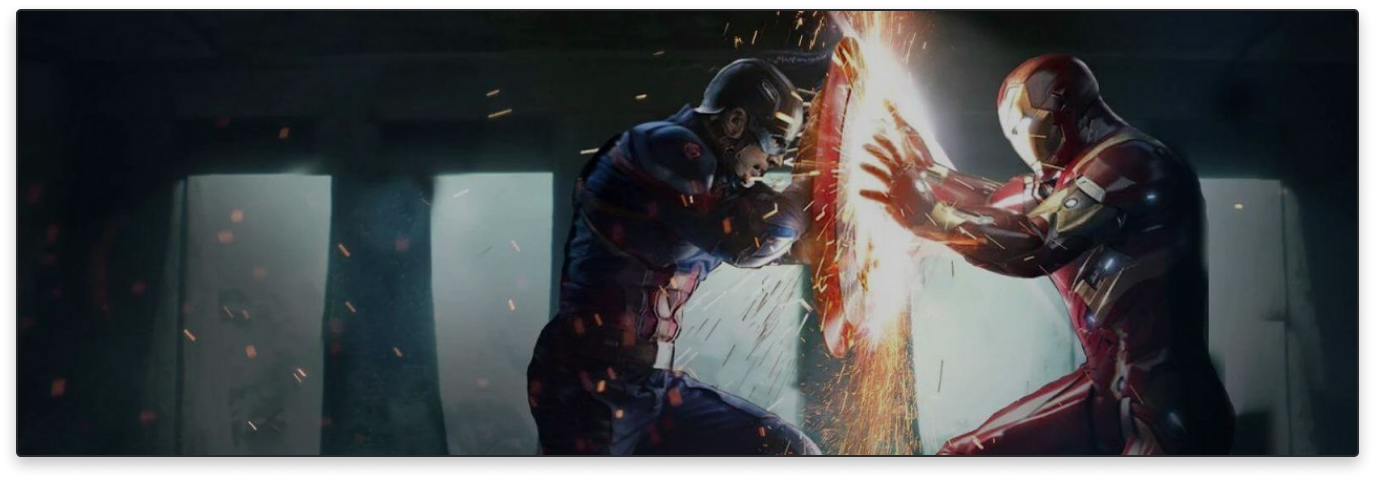
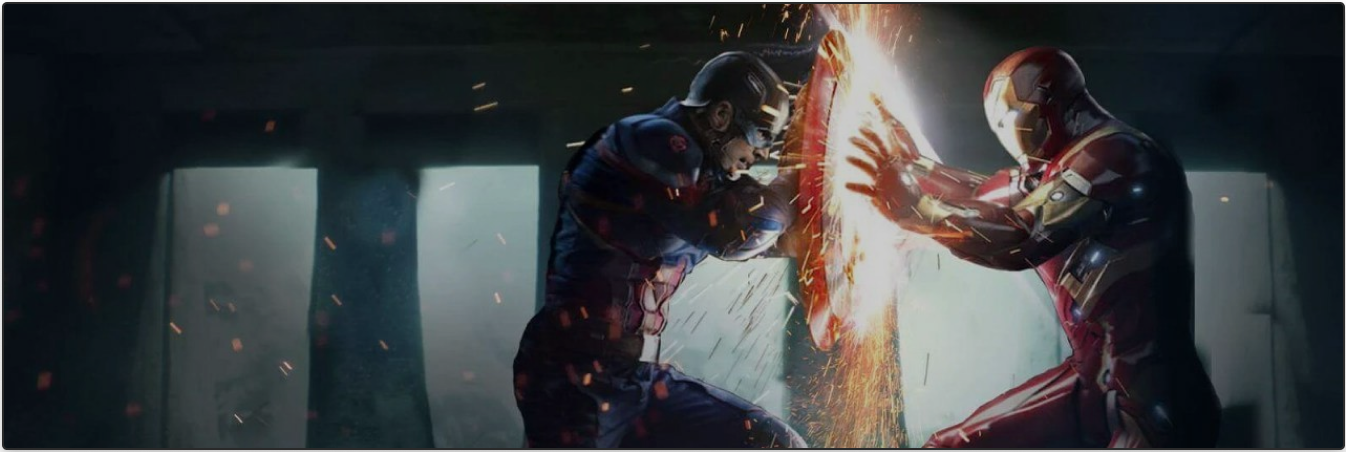
lead

diff --git a/src/components/Lead/Lead.css b/src/components/Lead/Lead.css
@@ -1,0 +1,56 @@
+.lead {
+max-width: 1343px;
+min-height: 448px;
+background-image: url(../../image/img-main.png);
+  background-repeat: no-repeat;
+background-position: cover;
+
+background-size: 100%;
+display: flex;
+align-items: center;
+position: relative;
+
+}
+
+.lead__img {
+  background-image: url(../../image/img-main.png);
+  background-repeat: no-repeat;
+background-position: cover;
+  position: absolute;
+  top: 0;
+  left: 0;
+  bottom: 0;
+  right: 0;
+}
+
+.lead__title {
+  font-family: 'Philosopher';
+  font-weight: 700;
+  font-size: /*calc(448px * 100% / 100vh)*/ 65px;
+  line-height: 102.5%;
+  text-shadow: 0px 4px 4px rgba(0, 0, 0, 0.4);
+  margin: 0;
+  max-width: 300px;
+  padding-left: 10%
+}
+
+.lead__description {
+
+}
+
+@media screen and (max-width: 1343px) {
+
+  .lead {
+    min-height: 350px;
+  }
+
+  .lead__title {
+    font-size:  55px;
+  }
+}
+
+@media screen and (max-width: 1023px) {
+  .lead {
+    min-height: 300px;
+  }
+}

diff --git a/src/components/Navigation/Navigation.css b/src/components/Navigation/Navigation.css
@@ -1,28 +1,22 @@
 .navigation {
-
-max-width: 870px;
-width: 100%;
-margin: 0 30px;
+  max-width: 700px;
+  width: 100%;
+  margin: 0 30px;
 }
 
-.navigation__list{
-display: flex;
-justify-content: space-between;
-padding: 0;
-margin: 0;
-list-style: none;
-
-
-
+.navigation__list {
+  display: flex;
+  justify-content: space-between;
+  padding: 0;
+  margin: 0;
+  list-style: none;
 }
 
-.navigation__box-link {
-
-}
+.navigation__box-link {}
 
 .navigation__link {
   text-decoration: none;
   color: #fff;
-  font-size: 18px;
-line-height: 21px;
+  font-size: 14px;
+  line-height: 21px;
 }

diff --git a/src/components/Lead/Lead.js b/src/components/Lead/Lead.js
@@ -1,0 +1,12 @@
+import './Lead.css';
+
+function Lead() {
+  return (
+    <section className='lead'>
+      <h1 className='lead__title'>Лучшие фильмы всех времен</h1>
+      <p className='lead__description'></p>
+    </section>
+  )
+}
+
+export default Lead;

diff --git a/src/components/Header/Header.css b/src/components/Header/Header.css
@@ -1,6 +1,12 @@
 .header {
   display: flex;
-  min-height: 140px;
+  min-height: 100px;
   display: flex;
   align-items: center;
+}
+
+@media screen and (max-width: 1343px) {
+  .header {
+    margin: 0 5%;
+  }
 }

diff --git a/src/components/Main/Main.js b/src/components/Main/Main.js
@@ -1,11 +1,10 @@
-
 import './Main.css';
-
+import Lead from '../Lead/Lead';
 
 function Main() {
   return (
-    <main>
-
+    <main className='main'>
+      <Lead />
     </main>
   )
 }

diff --git a/src/components/Logo/Logo.css b/src/components/Logo/Logo.css
@@ -1,4 +1,4 @@
 .logo {
-  width: 155px;
-  height: 72px;
+  width: 130px;
+  height: 55px;
 }

diff --git a/src/components/Main/Main.css b/src/components/Main/Main.css
@@ -1,0 +1,5 @@
+@media screen and (max-width: 1343px) {
+  .main {
+    margin: 0 5%;
+  }
+}

diff --git a/src/components/App/App.css b/src/components/App/App.css
@@ -2,3 +2,4 @@
   max-width: 1343px;
   width: 100%;
 }
+
